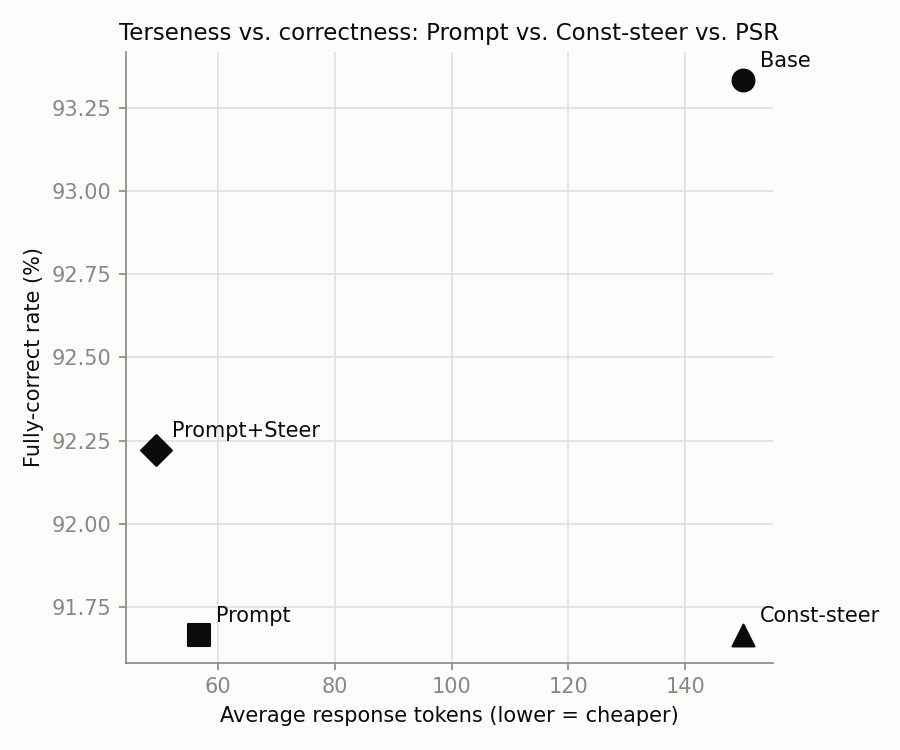
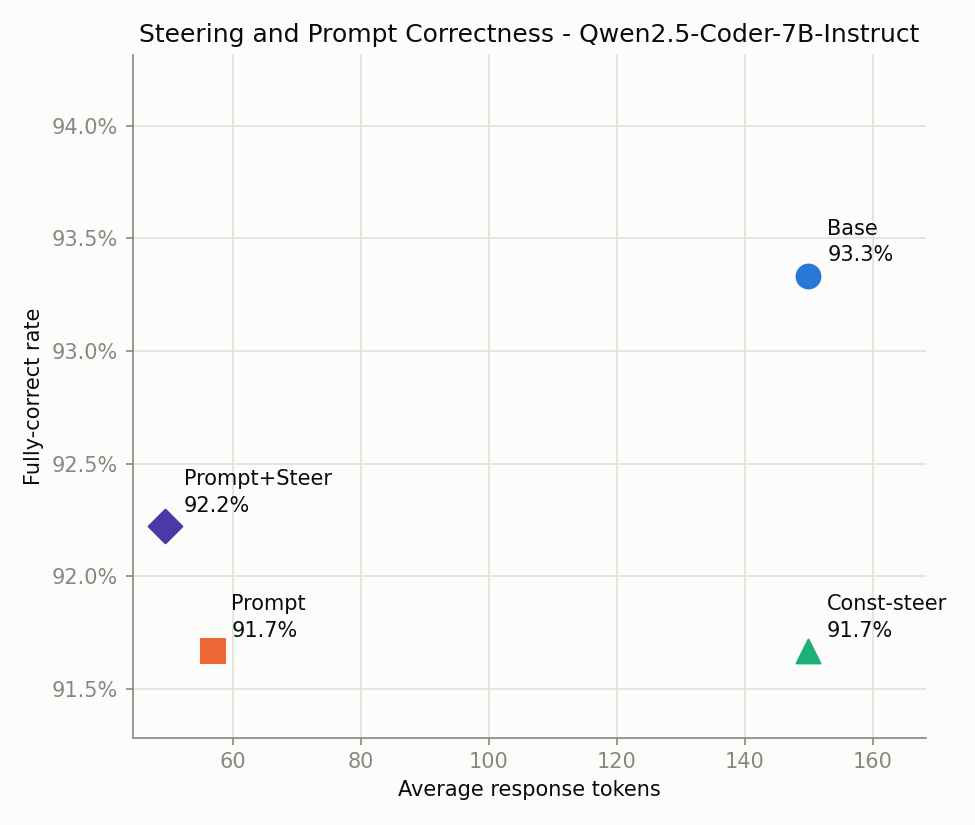
Fix leftover PSR title, color the main plot, use Stolfo's c notation
Main plot's title still said "...vs. PSR" from before PSR was dropped
-- replaced with an accurate title naming the model. Also: colors per
condition (same validated palette as the sweep plot), full-precision
percentage labels on each point, dropped parenthetical axis asides,
and fixed y-axis tick formatting (previously rounded to whole numbers,
which duplicated labels given how narrow the actual correctness range
is). Sweep plot's per-point labels now read "c=6" etc., matching
Stolfo et al.'s own variable name for the steering coefficient.

diff --git a/src/analyze.py b/src/analyze.py
@@ -9,6 +9,9 @@ from data_utils import RESULTS_DIR, read_jsonl
 CONDITIONS = ["base", "prompt", "const", "prompt_const"]
 LABELS = {"base": "Base", "prompt": "Prompt", "const": "Const-steer", "prompt_const": "Prompt+Steer"}
 MARKERS = {"base": "o", "prompt": "s", "const": "^", "prompt_const": "D"}
+# Same validated all-pairs-safe 4-color palette as the sweep plot (dataviz skill, light-mode static PNG).
+COLORS = {"base": "#2a78d6", "prompt": "#eb6834", "const": "#1baf7a", "prompt_const": "#4a3aa7"}
+MODEL_NAME = "Qwen2.5-Coder-7B-Instruct"
 INK = "#0b0b0b"
 MUTED = "#898781"
 GRIDLINE = "#e1e0d9"
@@ -32,31 +35,32 @@ def summarize(rows: list[dict]) -> dict[str, dict]:
 
 
 def plot(summary: dict[str, dict], out_path) -> None:
-    fig, ax = plt.subplots(figsize=(6, 5), facecolor="#fcfcfb")
+    fig, ax = plt.subplots(figsize=(6.5, 5.5), facecolor="#fcfcfb")
     ax.set_facecolor("#fcfcfb")
 
     for cond in CONDITIONS:
         s = summary[cond]
-        ax.scatter(
-            s["avg_tokens"],
-            s["full_correct_rate"] * 100,
-            marker=MARKERS[cond],
-            s=110,
-            color=INK,
-            zorder=3,
-        )
+        x, y = s["avg_tokens"], s["full_correct_rate"] * 100
+        ax.scatter(x, y, marker=MARKERS[cond], s=130, color=COLORS[cond], zorder=3)
         ax.annotate(
-            LABELS[cond],
-            (s["avg_tokens"], s["full_correct_rate"] * 100),
+            f"{LABELS[cond]}\n{y:.1f}%",
+            (x, y),
             textcoords="offset points",
-            xytext=(8, 6),
+            xytext=(9, 7),
             fontsize=10,
             color=INK,
+            linespacing=1.4,
         )
 
-    ax.set_xlabel("Average response tokens (lower = cheaper)", color=INK)
-    ax.set_ylabel("Fully-correct rate (%)", color=INK)
-    ax.set_title("Terseness vs. correctness: Prompt vs. Const-steer vs. PSR", color=INK, fontsize=11)
+    ymin, ymax = ax.get_ylim()
+    ax.set_ylim(ymin - 0.3, ymax + 0.9)  # headroom so top annotations clear the title
+    xmin, xmax = ax.get_xlim()
+    ax.set_xlim(xmin, xmax + (xmax - xmin) * 0.12)  # headroom for right-side annotations
+
+    ax.set_xlabel("Average response tokens", color=INK)
+    ax.set_ylabel("Fully-correct rate", color=INK)
+    ax.set_title(f"Steering and Prompt Correctness - {MODEL_NAME}", color=INK, fontsize=12)
+    ax.yaxis.set_major_formatter(lambda v, _: f"{v:.1f}%")
     ax.grid(True, color=GRIDLINE, linewidth=0.8, zorder=0)
     for spine in ["top", "right"]:
         ax.spines[spine].set_visible(False)

diff --git a/src/analyze_sweep.py b/src/analyze_sweep.py
@@ -51,7 +51,7 @@ def plot(summary: list[dict], out_path) -> None:
             zorder=3,
         )
         ax.annotate(
-            f"c{s['coeff']}",
+            f"c={s['coeff']}",
             (s["avg_tokens"], s["full_correct_rate"] * 100),
             textcoords="offset points",
             xytext=(6, 4),